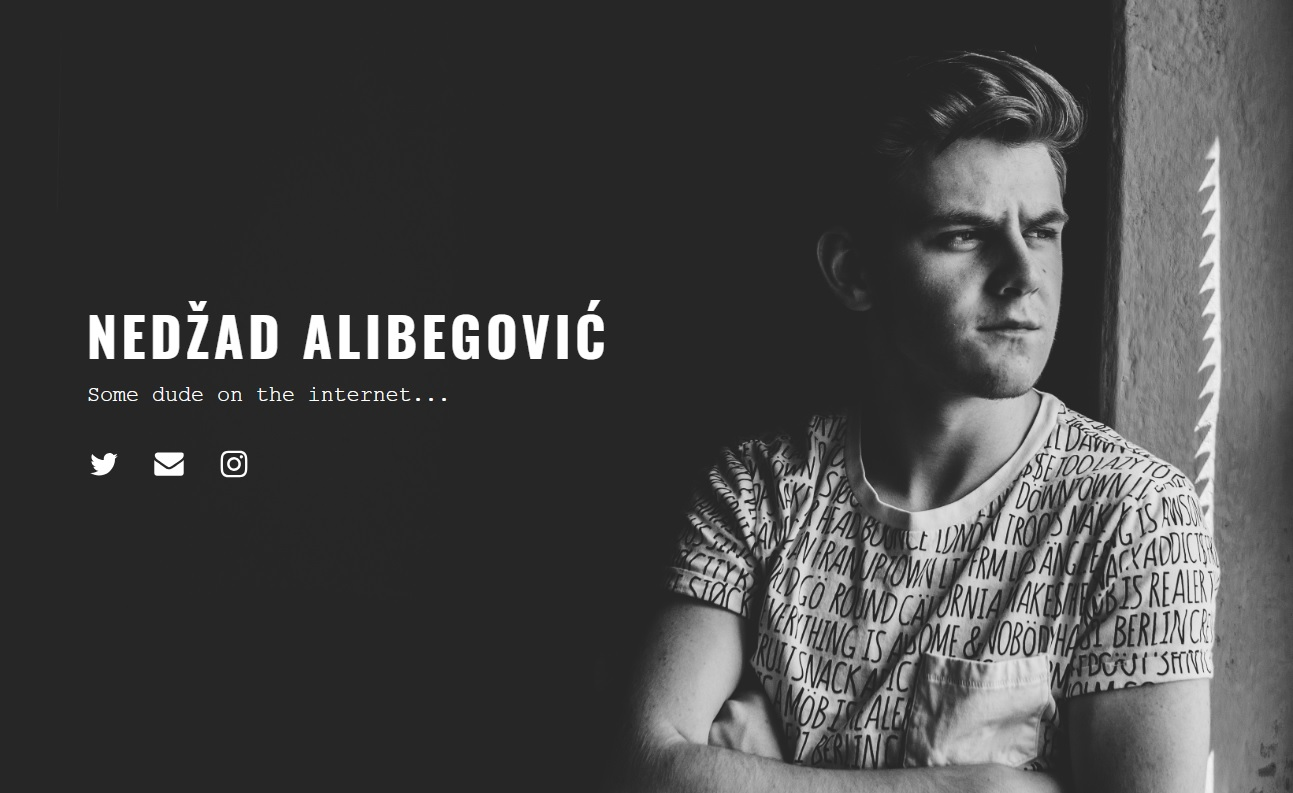
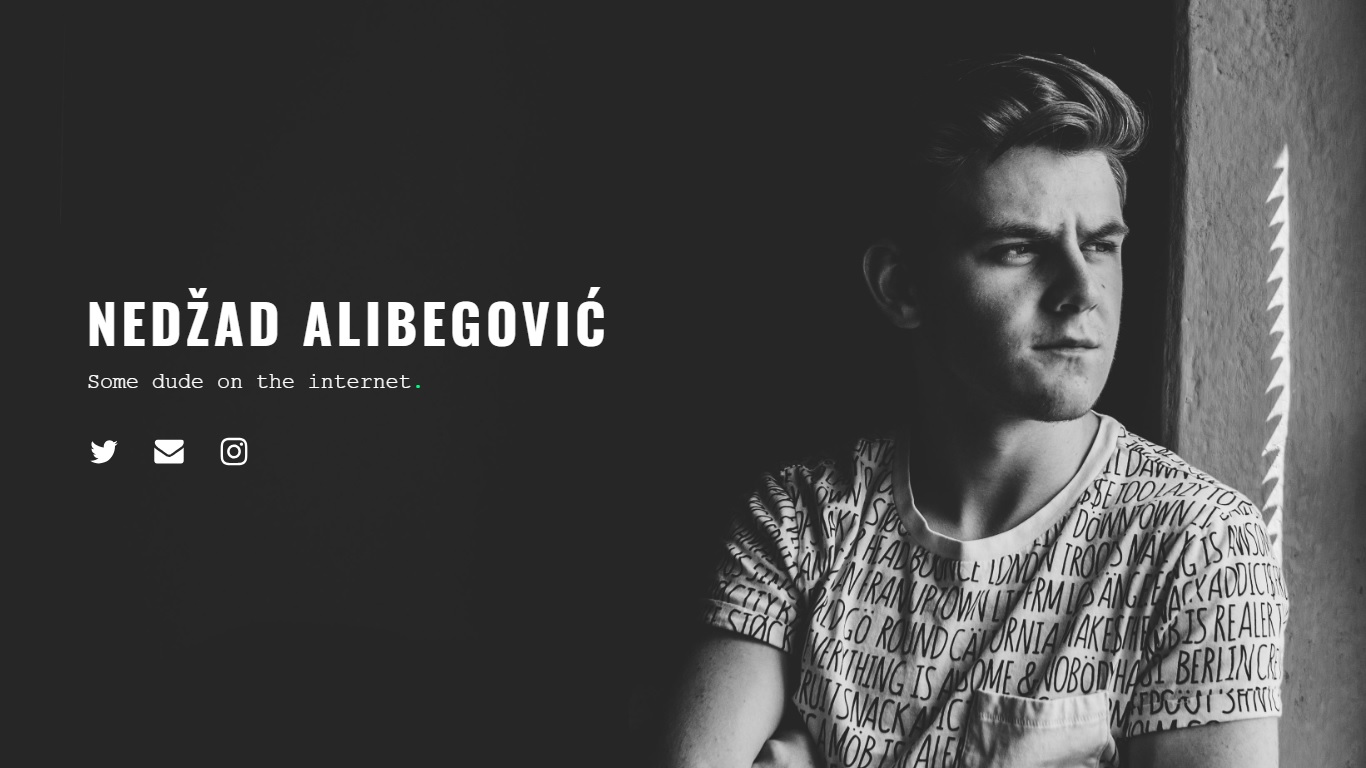
Changed color, description, added small detail, disabled text selection, new meta image.

diff --git a/public/assets/css/main.min.css b/public/assets/css/main.min.css
@@ -1,1 +1,1 @@
-a,abbr,acronym,address,applet,article,aside,audio,b,big,blockquote,body,canvas,caption,center,cite,code,dd,del,details,dfn,div,dl,dt,em,embed,fieldset,figcaption,figure,footer,form,h1,h2,h3,h4,h5,h6,header,hgroup,html,i,iframe,img,ins,kbd,label,legend,li,mark,menu,nav,object,ol,output,p,pre,q,ruby,s,samp,section,small,span,strike,strong,sub,summary,sup,table,tbody,td,tfoot,th,thead,time,tr,tt,u,ul,var,video{margin:0;padding:0;border:0;font-size:100%;font:inherit;vertical-align:baseline}article,aside,details,figcaption,figure,footer,header,hgroup,menu,nav,section{display:block}body{line-height:1}ol,ul{list-style:none}blockquote,q{quotes:none}blockquote:after,blockquote:before,q:after,q:before{content:'';content:none}table{border-collapse:collapse;border-spacing:0}body{-webkit-text-size-adjust:none}mark{background-color:transparent;color:inherit}input::-moz-focus-inner{border:0;padding:0}input[type=email],input[type=text],select,textarea{-moz-appearance:none;-webkit-appearance:none;-ms-appearance:none;appearance:none}*,:after,:before{box-sizing:border-box}body{min-width:320px;min-height:100vh;line-height:1;word-wrap:break-word;overflow-x:hidden}u{text-decoration:underline}strong{color:inherit;font-weight:bolder}em{font-style:italic}code{font-family:'Lucida Console','Courier New',monospace;font-weight:400;text-indent:0;letter-spacing:0;font-size:.9em;margin:0 .25em;padding:.25em .5em;background-color:rgba(144,144,144,.25);border-radius:.25em}mark{background-color:rgba(144,144,144,.25)}a{-moz-transition:color .25s ease,background-color .25s ease,border-color .25s ease;-webkit-transition:color .25s ease,background-color .25s ease,border-color .25s ease;-ms-transition:color .25s ease,background-color .25s ease,border-color .25s ease;transition:color .25s ease,background-color .25s ease,border-color .25s ease;color:inherit;text-decoration:underline}s{text-decoration:line-through}body:before{content:'';display:block;position:fixed;top:0;left:0;width:100vw;height:100vh;z-index:0;-moz-pointer-events:none;-webkit-pointer-events:none;-ms-pointer-events:none;pointer-events:none;-moz-transform:scale(1);-webkit-transform:scale(1);-ms-transform:scale(1);transform:scale(1);background-image:url(/assets/img/bg.min.jpg);background-position:top right;background-repeat:repeat;background-size:cover;background-attachment:scroll;background-color:#262626}body:after{display:block;content:'';position:fixed;top:0;left:0;width:100%;height:100%;background-color:#262626;z-index:1;opacity:0;visibility:hidden;-moz-transition:opacity 2.5s ease-in-out .5s,visibility 2.5s .5s;-webkit-transition:opacity 2.5s ease-in-out .5s,visibility 2.5s .5s;-ms-transition:opacity 2.5s ease-in-out .5s,visibility 2.5s .5s;transition:opacity 2.5s ease-in-out .5s,visibility 2.5s .5s;-moz-transform:scale(1);-webkit-transform:scale(1);-ms-transform:scale(1);transform:scale(1)}body.is-loading:after{opacity:1;visibility:visible}html{font-size:18pt}#wrapper{-webkit-overflow-scrolling:touch;display:-moz-flex;display:-webkit-flex;display:-ms-flex;display:flex;-moz-flex-direction:column;-webkit-flex-direction:column;-ms-flex-direction:column;flex-direction:column;-moz-align-items:flex-start;-webkit-align-items:flex-start;-ms-align-items:flex-start;align-items:flex-start;-moz-justify-content:center;-webkit-justify-content:center;-ms-justify-content:center;justify-content:center;min-height:100vh;position:relative;z-index:2;overflow:hidden}#main{display:-moz-flex;display:-webkit-flex;display:-ms-flex;display:flex;position:relative;max-width:100%;z-index:1;-moz-align-items:center;-webkit-align-items:center;-ms-align-items:center;align-items:center;-moz-justify-content:center;-webkit-justify-content:center;-ms-justify-content:center;justify-content:center;-moz-flex-grow:0;-webkit-flex-grow:0;-ms-flex-grow:0;flex-grow:0;-moz-flex-shrink:0;-webkit-flex-shrink:0;-ms-flex-shrink:0;flex-shrink:0;text-align:left;-moz-transition:opacity 625ms ease-in-out 0s;-webkit-transition:opacity 625ms ease-in-out 0s;-ms-transition:opacity 625ms ease-in-out 0s;transition:opacity 625ms ease-in-out 0s}#main>.inner{position:relative;z-index:1;border-radius:inherit;padding:5rem 5rem;max-width:100%;width:40rem}#main>.inner>*{margin-top:1.5rem;margin-bottom:1.5rem}#main>.inner>:first-child{margin-top:0!important}#main>.inner>:last-child{margin-bottom:0!important}#main>.inner>.full{margin-left:calc(-5rem);width:calc(100% + 10rem + .4725px);max-width:calc(100% + 10rem + .4725px)}#main>.inner>.full:first-child{margin-top:-5rem!important;border-top-left-radius:inherit;border-top-right-radius:inherit}#main>.inner>.full:last-child{margin-bottom:-5rem!important;border-bottom-left-radius:inherit;border-bottom-right-radius:inherit}#main>.inner>.full.screen{width:100vw;max-width:100vw;position:relative;border-radius:0!important;left:0;right:auto;margin-left:calc(-5rem)}body.is-loading #main{opacity:0}h1 br+br,h2 br+br,h3 br+br,p br+br{display:block;content:' ';margin-top:.825rem}h1 .li,h2 .li,h3 .li,p .li{display:list-item;padding-left:.5em;margin:.75em 0 0 1em}#text01 br+br{margin-top:.75rem}#text01{font-family:Oswald,sans-serif;line-height:1.25;font-weight:700}#text02{font-size:1.25em;text-transform:none;letter-spacing:0;width:auto}#credits{font-size:.8em;text-transform:none;letter-spacing:0;width:auto;cursor:default;margin-top:1rem!important}#credits a{text-decoration:underline;-moz-transition:opacity .25s ease;-webkit-transition:opacity .25s ease;-ms-transition:opacity .25s ease;transition:opacity .25s ease;opacity:.5;text-decoration:none!important}#credits a:hover{text-decoration:none;opacity:1;text-decoration:none!important}h1,h2,h3,p{text-transform:uppercase;color:#fff;font-family:'Courier New',monospace;letter-spacing:.25rem;width:calc(100% + .25rem);font-size:3.125em;line-height:1.375;font-weight:400}.container>.inner{vertical-align:top;position:relative;max-width:100%;border-radius:inherit}#main .container.full:first-child>.inner{border-top-left-radius:inherit;border-top-right-radius:inherit}#main .container.full:last-child>.inner{border-bottom-left-radius:inherit;border-bottom-right-radius:inherit}#columns01{margin-top:1.313rem!important;margin-bottom:1.313rem!important}#columns01>.inner{padding:0 0;width:40rem;background-color:transparent;display:inline-block}#columns01>.inner>*{margin-top:.75rem;margin-bottom:.75rem}#columns01>.inner>:first-child{margin-top:0!important}#columns01>.inner>:last-child{margin-bottom:0!important}.icons{cursor:default;padding:0;letter-spacing:0;font-size:2em;width:calc(100% + 1.25rem);margin-left:-.625rem}.icons li{display:inline-block;vertical-align:middle;margin:.625rem}.icons li a{display:-moz-flex;display:-webkit-flex;display:-ms-flex;display:flex;-moz-align-items:center;-webkit-align-items:center;-ms-align-items:center;align-items:center;-moz-justify-content:center;-webkit-justify-content:center;-ms-justify-content:center;justify-content:center;border-radius:100%;width:1em;height:1em}.icons li a svg{display:block;-moz-transition:fill .25s ease;-webkit-transition:fill .25s ease;-ms-transition:fill .25s ease;transition:fill .25s ease}.icons li a .label{display:none}#icons01 li a svg{width:100%;height:100%}#icons01 .n01 svg{fill:#fff}#icons01 .n01:hover svg{fill:#99f9ff}#icons01 .n02 svg{fill:#fff}#icons01 .n02:hover svg{fill:#99f9ff}#icons01 .n03 svg{fill:#fff}#icons01 .n03:hover svg{fill:#99f9ff}@media (max-width:1680px){html{font-size:13pt}}@media (max-width:1280px){html{font-size:13pt}}@media (max-width:980px){html{font-size:11pt}}@media (max-width:736px){html{font-size:11pt}#main{text-align:center}#main h1,#main h2,#main h3,#main p{text-align:inherit}#main>.inner{padding:3.5rem 2rem}#main>.inner>*{margin-top:1.5rem;margin-bottom:1.5rem}#main>.inner>.full{margin-left:calc(-2rem);width:calc(100% + 4rem + .4725px);max-width:calc(100% + 4rem + .4725px)}#main>.inner>.full:first-child{margin-top:-3.5rem!important}#main>.inner>.full:last-child{margin-bottom:-3.5rem!important}#main>.inner>.full.screen{margin-left:calc(-2rem)}#text01{font-size:3em}#columns01{margin-top:.75rem!important;margin-bottom:.75rem!important}#columns01>.inner{padding:0 0}#columns01>.inner>*{margin-top:.75rem;margin-bottom:.75rem}}@media (max-width:480px){#main>.inner>*{margin-top:1.3125rem;margin-bottom:1.3125rem}#columns01>.inner>*{margin-top:.65625rem;margin-bottom:.65625rem}}@media (max-width:360px){#main>.inner{padding:2.625rem 1.5rem}#main>.inner>*{margin-top:1.125rem;margin-bottom:1.125rem}#main>.inner>.full{margin-left:calc(-1.5rem);width:calc(100% + 3rem + .4725px);max-width:calc(100% + 3rem + .4725px)}#main>.inner>.full:first-child{margin-top:-2.625rem!important}#main>.inner>.full:last-child{margin-bottom:-2.625rem!important}#main>.inner>.full.screen{margin-left:calc(-1.5rem)}#columns01>.inner{padding:0 0}#columns01>.inner>*{margin-top:.5625rem;margin-bottom:.5625rem}#icons01{width:calc(100% + .9375rem);margin-left:-.46875rem}#icons01 li{margin:.46875rem}}
+a,abbr,acronym,address,applet,article,aside,audio,b,big,blockquote,body,canvas,caption,center,cite,code,dd,del,details,dfn,div,dl,dt,em,embed,fieldset,figcaption,figure,footer,form,h1,h2,h3,h4,h5,h6,header,hgroup,html,i,iframe,img,ins,kbd,label,legend,li,mark,menu,nav,object,ol,output,p,pre,q,ruby,s,samp,section,small,span,strike,strong,sub,summary,sup,table,tbody,td,tfoot,th,thead,time,tr,tt,u,ul,var,video{margin:0;padding:0;border:0;font-size:100%;font:inherit;vertical-align:baseline}article,aside,details,figcaption,figure,footer,header,hgroup,menu,nav,section{display:block}body{line-height:1}ol,ul{list-style:none}blockquote,q{quotes:none}blockquote:after,blockquote:before,q:after,q:before{content:'';content:none}table{border-collapse:collapse;border-spacing:0}body{-webkit-text-size-adjust:none;-webkit-touch-callout:none;-webkit-user-select:none;-khtml-user-select:none;-moz-user-select:none;-ms-user-select:none;user-select:none}mark{background-color:transparent;color:inherit}input::-moz-focus-inner{border:0;padding:0}input[type=email],input[type=text],select,textarea{-moz-appearance:none;-webkit-appearance:none;-ms-appearance:none;appearance:none}*,:after,:before{box-sizing:border-box}body{min-width:320px;min-height:100vh;line-height:1;word-wrap:break-word;overflow-x:hidden}u{text-decoration:underline}strong{color:inherit;font-weight:bolder}em{color:#00ff80}em:hover{color:#fff}code{font-family:'Lucida Console','Courier New',monospace;font-weight:400;text-indent:0;letter-spacing:0;font-size:.9em;margin:0 .25em;padding:.25em .5em;background-color:rgba(144,144,144,.25);border-radius:.25em}mark{background-color:rgba(144,144,144,.25)}a{-moz-transition:color .25s ease,background-color .25s ease,border-color .25s ease;-webkit-transition:color .25s ease,background-color .25s ease,border-color .25s ease;-ms-transition:color .25s ease,background-color .25s ease,border-color .25s ease;transition:color .25s ease,background-color .25s ease,border-color .25s ease;color:inherit;text-decoration:underline}s{text-decoration:line-through}body:before{content:'';display:block;position:fixed;top:0;left:0;width:100vw;height:100vh;z-index:0;-moz-pointer-events:none;-webkit-pointer-events:none;-ms-pointer-events:none;pointer-events:none;-moz-transform:scale(1);-webkit-transform:scale(1);-ms-transform:scale(1);transform:scale(1);background-image:url(/assets/img/bg.min.jpg);background-position:top right;background-repeat:repeat;background-size:cover;background-attachment:scroll;background-color:#262626}body:after{display:block;content:'';position:fixed;top:0;left:0;width:100%;height:100%;background-color:#262626;z-index:1;opacity:0;visibility:hidden;-moz-transition:opacity 2.5s ease-in-out .5s,visibility 2.5s .5s;-webkit-transition:opacity 2.5s ease-in-out .5s,visibility 2.5s .5s;-ms-transition:opacity 2.5s ease-in-out .5s,visibility 2.5s .5s;transition:opacity 2.5s ease-in-out .5s,visibility 2.5s .5s;-moz-transform:scale(1);-webkit-transform:scale(1);-ms-transform:scale(1);transform:scale(1)}body.is-loading:after{opacity:1;visibility:visible}html{font-size:18pt}#wrapper{-webkit-overflow-scrolling:touch;display:-moz-flex;display:-webkit-flex;display:-ms-flex;display:flex;-moz-flex-direction:column;-webkit-flex-direction:column;-ms-flex-direction:column;flex-direction:column;-moz-align-items:flex-start;-webkit-align-items:flex-start;-ms-align-items:flex-start;align-items:flex-start;-moz-justify-content:center;-webkit-justify-content:center;-ms-justify-content:center;justify-content:center;min-height:100vh;position:relative;z-index:2;overflow:hidden}#main{display:-moz-flex;display:-webkit-flex;display:-ms-flex;display:flex;position:relative;max-width:100%;z-index:1;-moz-align-items:center;-webkit-align-items:center;-ms-align-items:center;align-items:center;-moz-justify-content:center;-webkit-justify-content:center;-ms-justify-content:center;justify-content:center;-moz-flex-grow:0;-webkit-flex-grow:0;-ms-flex-grow:0;flex-grow:0;-moz-flex-shrink:0;-webkit-flex-shrink:0;-ms-flex-shrink:0;flex-shrink:0;text-align:left;-moz-transition:opacity 625ms ease-in-out 0s;-webkit-transition:opacity 625ms ease-in-out 0s;-ms-transition:opacity 625ms ease-in-out 0s;transition:opacity 625ms ease-in-out 0s}#main>.inner{position:relative;z-index:1;border-radius:inherit;padding:5rem 5rem;max-width:100%;width:40rem}#main>.inner>*{margin-top:1.5rem;margin-bottom:1.5rem}#main>.inner>:first-child{margin-top:0!important}#main>.inner>:last-child{margin-bottom:0!important}#main>.inner>.full{margin-left:calc(-5rem);width:calc(100% + 10rem + .4725px);max-width:calc(100% + 10rem + .4725px)}#main>.inner>.full:first-child{margin-top:-5rem!important;border-top-left-radius:inherit;border-top-right-radius:inherit}#main>.inner>.full:last-child{margin-bottom:-5rem!important;border-bottom-left-radius:inherit;border-bottom-right-radius:inherit}#main>.inner>.full.screen{width:100vw;max-width:100vw;position:relative;border-radius:0!important;left:0;right:auto;margin-left:calc(-5rem)}body.is-loading #main{opacity:0}h1 br+br,h2 br+br,h3 br+br,p br+br{display:block;content:' ';margin-top:.825rem}h1 .li,h2 .li,h3 .li,p .li{display:list-item;padding-left:.5em;margin:.75em 0 0 1em}#text01 br+br{margin-top:.75rem}#text01{font-family:Oswald,sans-serif;line-height:1.25;font-weight:700}#text02{font-size:1.25em;text-transform:none;letter-spacing:0;width:auto}#credits{font-size:.8em;text-transform:none;letter-spacing:0;width:auto;cursor:default;margin-top:1rem!important}#credits a{text-decoration:underline;-moz-transition:opacity .25s ease;-webkit-transition:opacity .25s ease;-ms-transition:opacity .25s ease;transition:opacity .25s ease;opacity:.5;text-decoration:none!important}#credits a:hover{text-decoration:none;opacity:1;text-decoration:none!important}h1,h2,h3,p{text-transform:uppercase;color:#fff;font-family:'Courier New',monospace;letter-spacing:.25rem;width:calc(100% + .25rem);font-size:3.125em;line-height:1.375;font-weight:400}.container>.inner{vertical-align:top;position:relative;max-width:100%;border-radius:inherit}#main .container.full:first-child>.inner{border-top-left-radius:inherit;border-top-right-radius:inherit}#main .container.full:last-child>.inner{border-bottom-left-radius:inherit;border-bottom-right-radius:inherit}#columns01{margin-top:1.313rem!important;margin-bottom:1.313rem!important}#columns01>.inner{padding:0 0;width:40rem;background-color:transparent;display:inline-block}#columns01>.inner>*{margin-top:.75rem;margin-bottom:.75rem}#columns01>.inner>:first-child{margin-top:0!important}#columns01>.inner>:last-child{margin-bottom:0!important}.icons{cursor:default;padding:0;letter-spacing:0;font-size:2em;width:calc(100% + 1.25rem);margin-left:-.625rem}.icons li{display:inline-block;vertical-align:middle;margin:.625rem}.icons li a{display:-moz-flex;display:-webkit-flex;display:-ms-flex;display:flex;-moz-align-items:center;-webkit-align-items:center;-ms-align-items:center;align-items:center;-moz-justify-content:center;-webkit-justify-content:center;-ms-justify-content:center;justify-content:center;border-radius:100%;width:1em;height:1em}.icons li a svg{display:block;-moz-transition:fill .25s ease;-webkit-transition:fill .25s ease;-ms-transition:fill .25s ease;transition:fill .25s ease}.icons li a .label{display:none}#icons01 li a svg{width:100%;height:100%}#icons01 .n01 svg{fill:#fff}#icons01 .n01:hover svg{fill:#00ff80}#icons01 .n02 svg{fill:#fff}#icons01 .n02:hover svg{fill:#00ff80}#icons01 .n03 svg{fill:#fff}#icons01 .n03:hover svg{fill:#00ff80}@media (max-width:1680px){html{font-size:13pt}}@media (max-width:1280px){html{font-size:13pt}}@media (max-width:980px){html{font-size:11pt}}@media (max-width:736px){html{font-size:11pt}#main{text-align:center}#main h1,#main h2,#main h3,#main p{text-align:inherit}#main>.inner{padding:3.5rem 2rem}#main>.inner>*{margin-top:1.5rem;margin-bottom:1.5rem}#main>.inner>.full{margin-left:calc(-2rem);width:calc(100% + 4rem + .4725px);max-width:calc(100% + 4rem + .4725px)}#main>.inner>.full:first-child{margin-top:-3.5rem!important}#main>.inner>.full:last-child{margin-bottom:-3.5rem!important}#main>.inner>.full.screen{margin-left:calc(-2rem)}#text01{font-size:3em}#columns01{margin-top:.75rem!important;margin-bottom:.75rem!important}#columns01>.inner{padding:0 0}#columns01>.inner>*{margin-top:.75rem;margin-bottom:.75rem}}@media (max-width:480px){#main>.inner>*{margin-top:1.3125rem;margin-bottom:1.3125rem}#columns01>.inner>*{margin-top:.65625rem;margin-bottom:.65625rem}}@media (max-width:360px){#main>.inner{padding:2.625rem 1.5rem}#main>.inner>*{margin-top:1.125rem;margin-bottom:1.125rem}#main>.inner>.full{margin-left:calc(-1.5rem);width:calc(100% + 3rem + .4725px);max-width:calc(100% + 3rem + .4725px)}#main>.inner>.full:first-child{margin-top:-2.625rem!important}#main>.inner>.full:last-child{margin-bottom:-2.625rem!important}#main>.inner>.full.screen{margin-left:calc(-1.5rem)}#columns01>.inner{padding:0 0}#columns01>.inner>*{margin-top:.5625rem;margin-bottom:.5625rem}#icons01{width:calc(100% + .9375rem);margin-left:-.46875rem}#icons01 li{margin:.46875rem}}

diff --git a/public/index.html b/public/index.html
@@ -5,14 +5,14 @@
 
     <title>Nedžad Alibegović</title>
     <meta charset="utf-8" />
-    <meta name="description" content="Some dude on the internet..." />
+    <meta name="description" content="Some dude on the internet" />
     <meta name="author" content="Nedžad Alibegović" />
     <meta name="viewport" content="width=device-width,initial-scale=1,user-scalable=no" />
     <meta property="og:site_name" content="Nedžad Alibegović" />
     <meta property="og:title" content="Nedžad Alibegović" />
     <meta property="og:type" content="article" />
-    <meta property="og:image" content="/assets/img/card.jpg">
-    <meta property="og:description" content="Some dude on the internet..." />
+    <meta property="og:image" content="assets/img/card.jpg">
+    <meta property="og:description" content="Some dude on the internet" />
     <link rel="stylesheet" type="text/css" href="assets/css/main.min.css" />
     <link href="https://fonts.googleapis.com/css?family=Oswald:700,700italic" rel="stylesheet" type="text/css" />
 
@@ -40,7 +40,7 @@
                 <div id="columns01" class="container">
                     <div class="inner">
                         <h1 id="text01">Nedžad Alibegović</h1>
-                        <p id="text02">Some dude on the internet...</p>
+                        <p id="text02">Some dude on the internet<em>.</em></p>
                     </div>
                 </div>
                 <ul id="icons01" class="icons">

diff --git a/public/assets/css/main.css b/public/assets/css/main.css
@@ -129,7 +129,13 @@
         }
 
         body {
-            -webkit-text-size-adjust: none
+            -webkit-text-size-adjust: none;
+            -webkit-touch-callout: none; /* iOS Safari */
+            -webkit-user-select: none; /* Safari */
+            -khtml-user-select: none; /* Konqueror HTML */
+            -moz-user-select: none; /* Firefox */
+            -ms-user-select: none; /* Internet Explorer/Edge */
+            user-select: none; /* Non-prefixed version, currently*/
         }
 
         mark {
@@ -176,7 +182,11 @@
         }
 
         em {
-            font-style: italic;
+            color: #00ff80;
+        }
+
+        em:hover {
+            color: #ffffff;
         }
 
         code {
@@ -544,7 +554,7 @@
         }
 
         #icons01 .n01:hover svg {
-            fill: #99F9FF;
+            fill: #00ff80;
         }
 
         #icons01 .n02 svg {
@@ -552,7 +562,7 @@
         }
 
         #icons01 .n02:hover svg {
-            fill: #99F9FF;
+            fill: #00ff80;
         }
 
         #icons01 .n03 svg {
@@ -560,7 +570,7 @@
         }
 
         #icons01 .n03:hover svg {
-            fill: #99F9FF;
+            fill: #00ff80;
         }
 
         @media (max-width: 1680px) {
